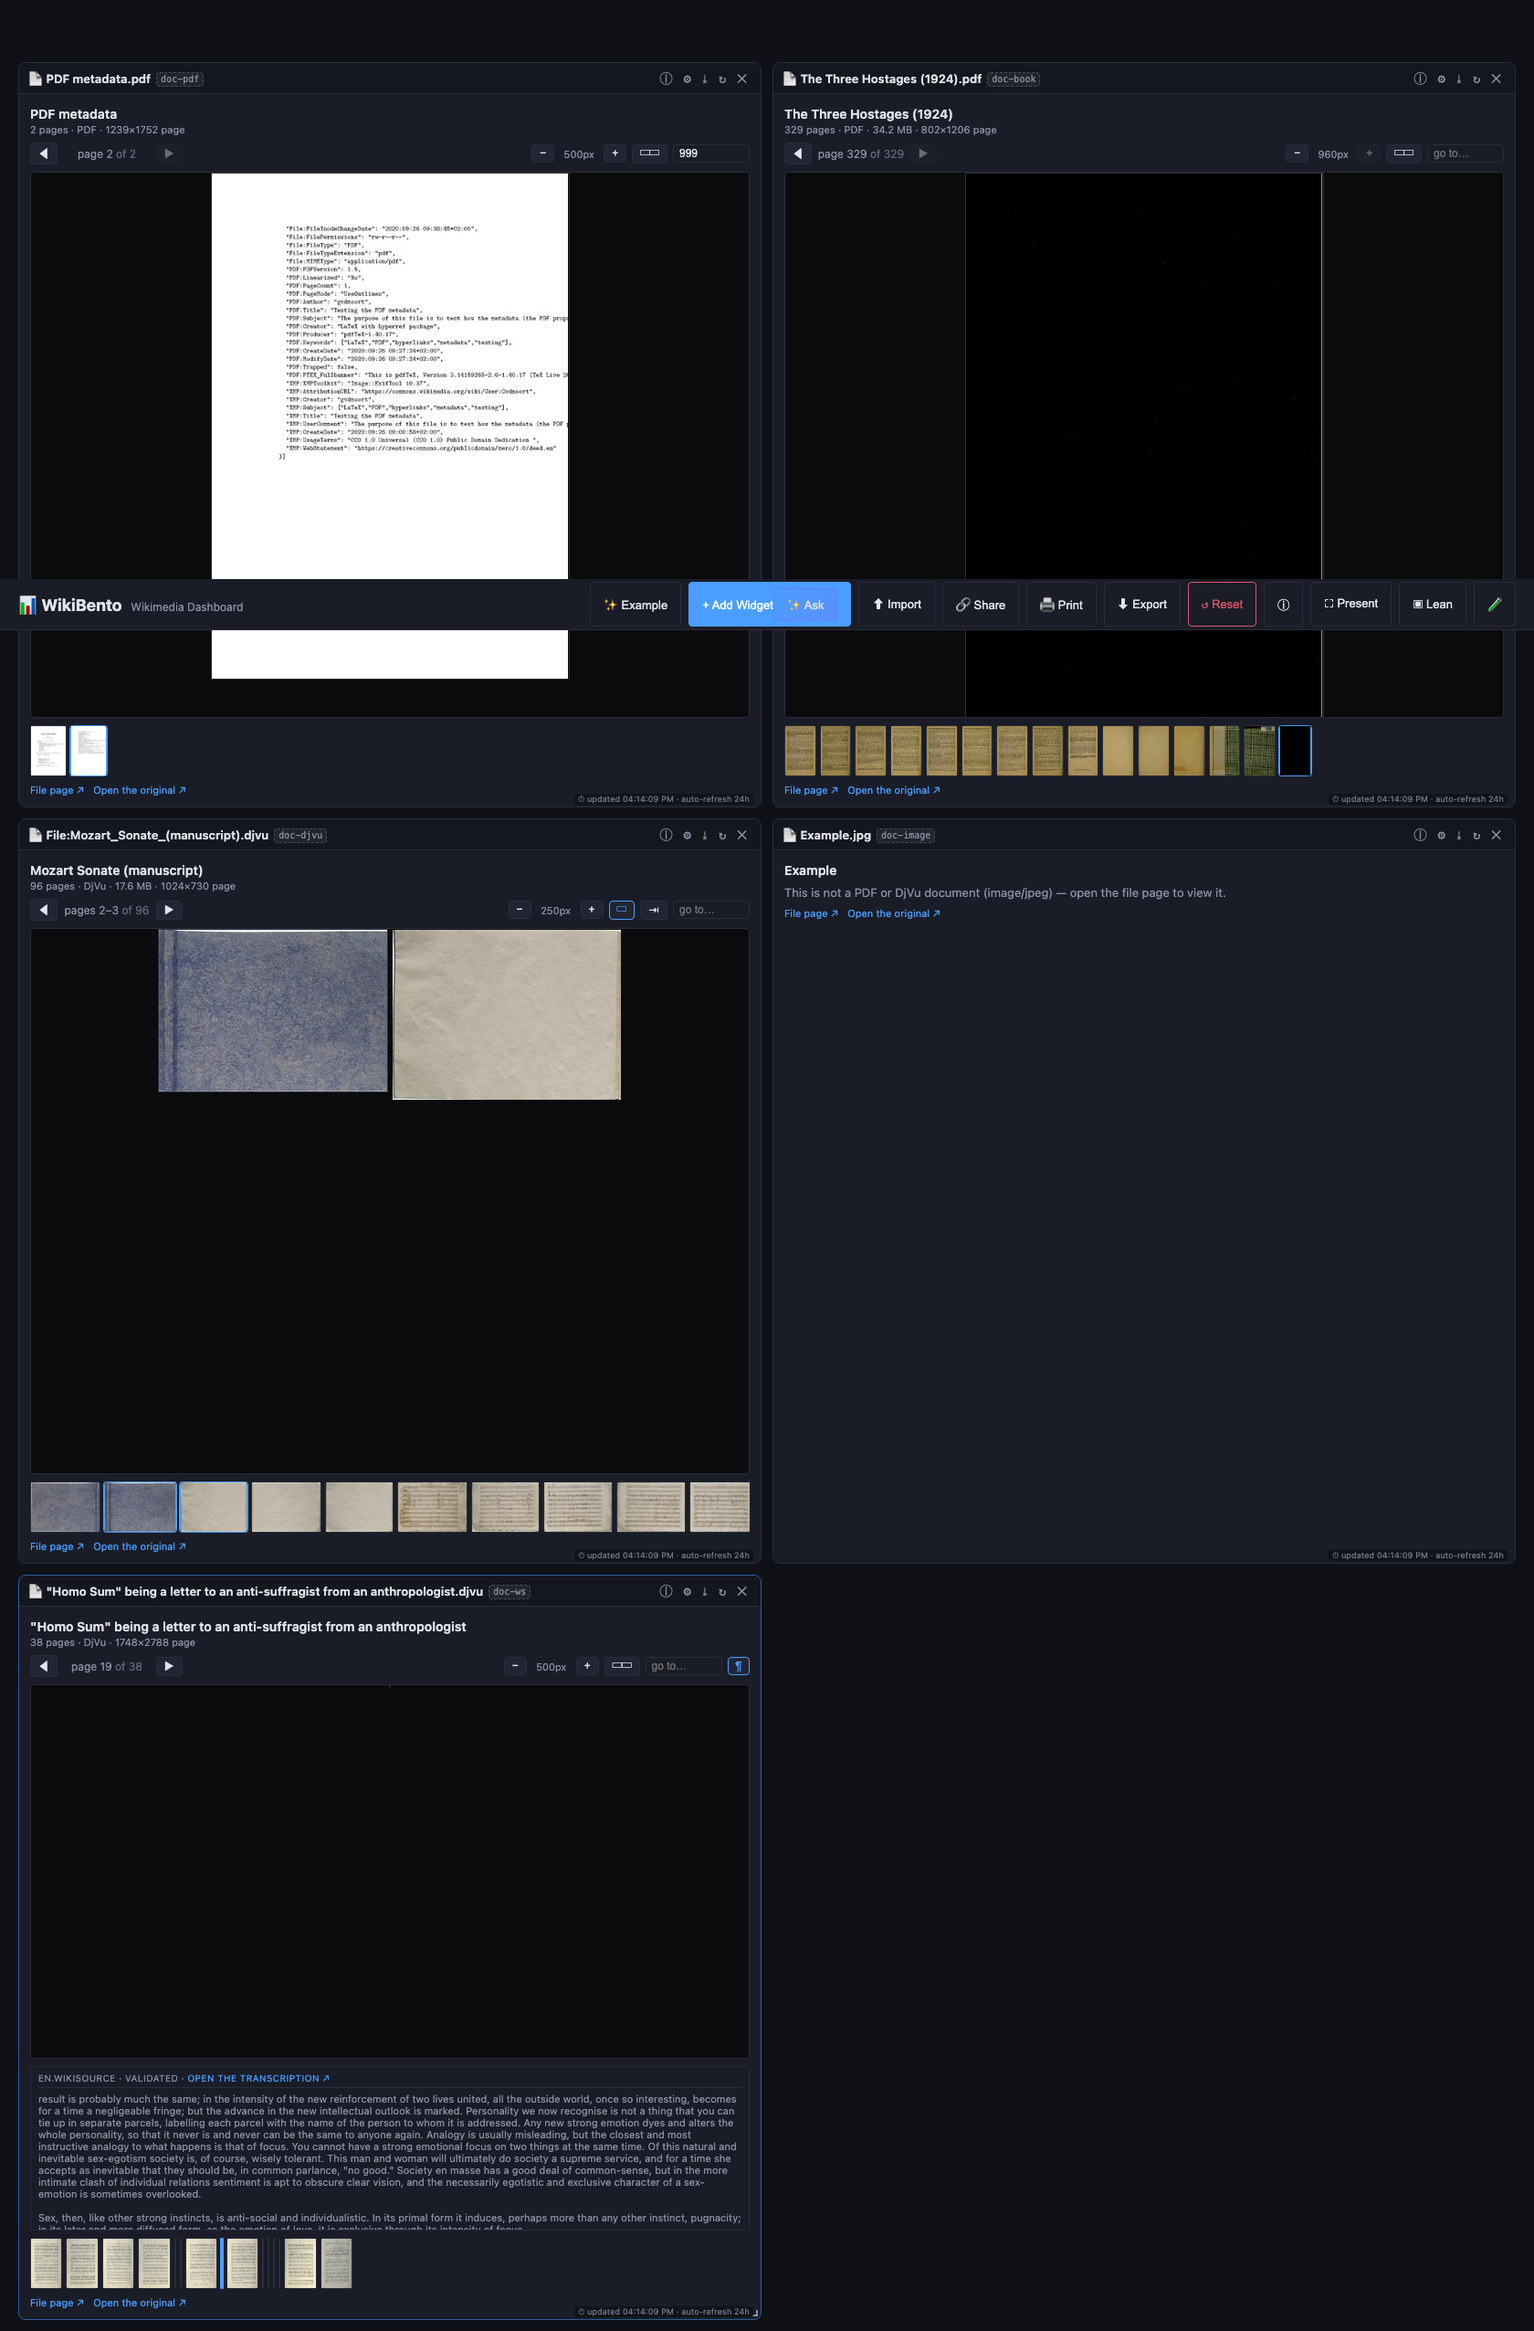
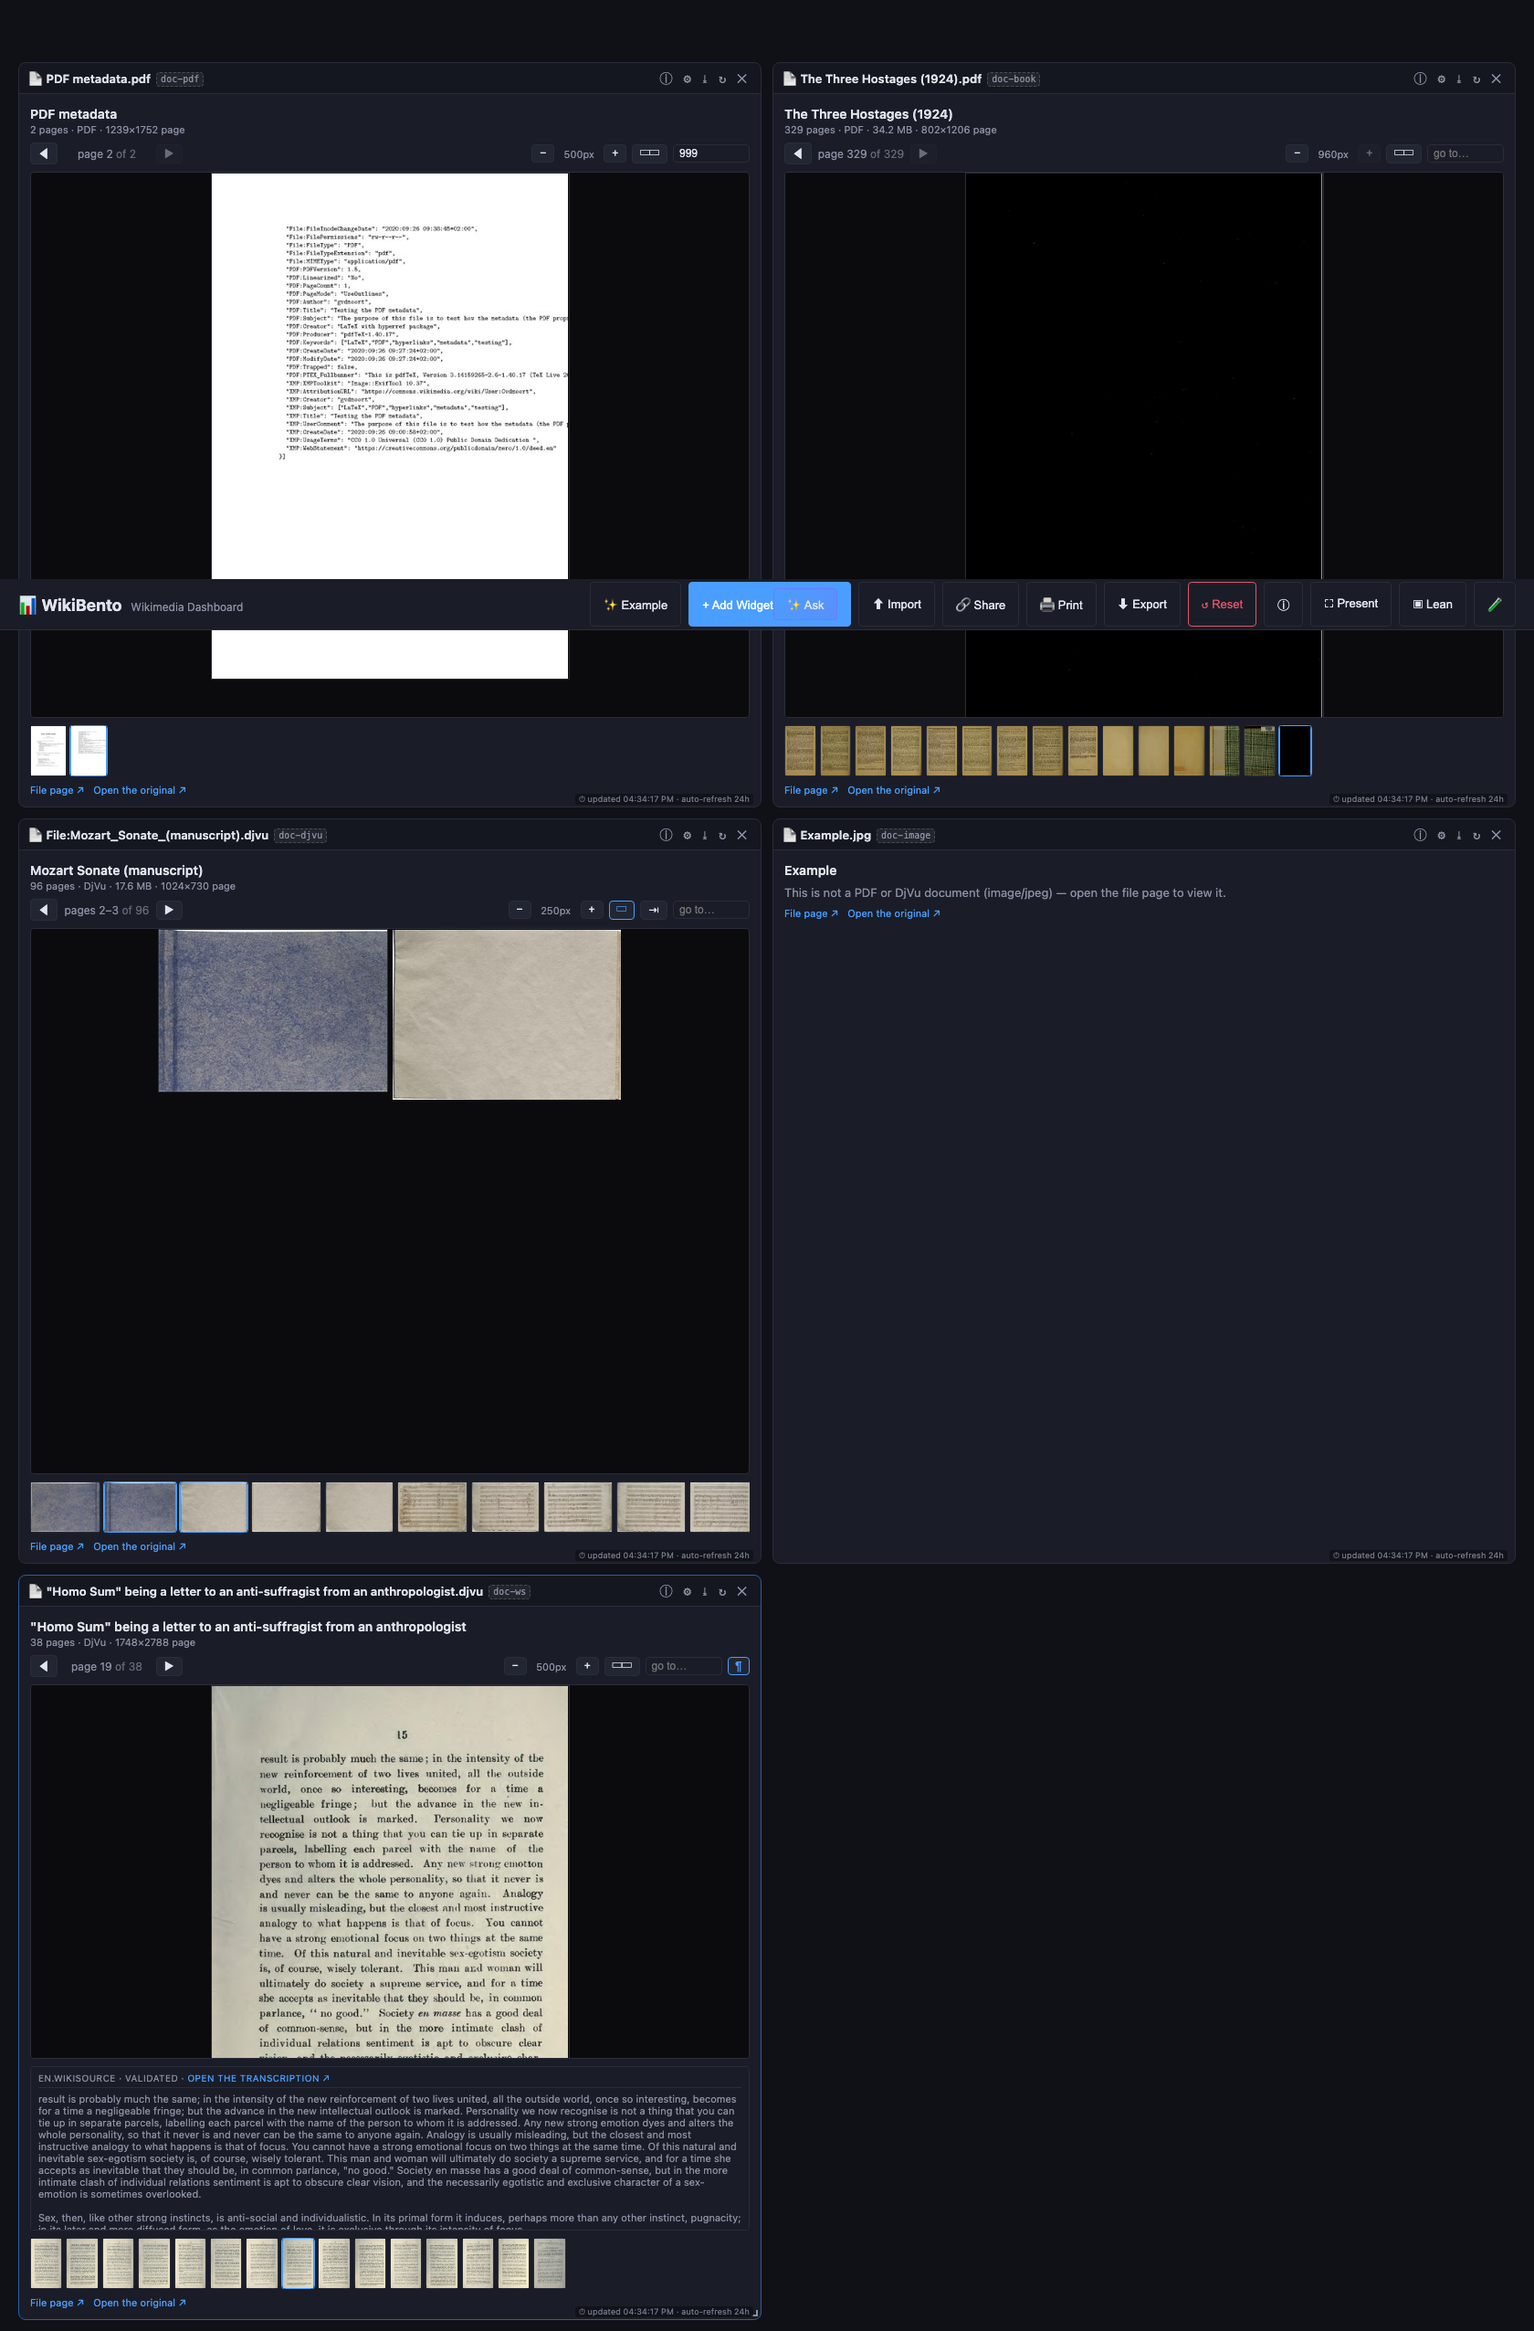
Deploy 2026-09-15 (third): the Wikisource text layer is live (index-B8NGcYXL.js)
Andrew asked to deploy so he could try it. Built, gated, rsynced, restarted, verified against production.

  npm test                439/439 + docs-facts 7/7
  npm run build           ✓
  npm run smoke           42/42 widgets reachable, 252 panel measurements
  npm run smoke:document  31/31  (real Commons files, including the Wikisource text layer)
  npm run smoke:iabook    33/33  (the IA reader, unchanged)

VERIFIED LIVE (17/17, https://wikibento.toolforge.org/ serving index-B8NGcYXL.js):
  · /document-reader-demo.json — five cards; the four documents report 329 / 96 / 38 / 16 pages; the
    transcribed card grows a ¶ button and an untranscribed one does not; page 19 of the transcribed work
    shows 1,458 characters under "EN.WIKISOURCE · VALIDATED", linked to Wikisource;
  · the showcase catalog renders 42 cards with zero crashes;
  · /internet-archive-demo.json still opens its books as facing pages; /anne-frank-mlk-demo.json still draws
    its 21 timeline dots;
  · /api/resolve and /api/proxy 200; the front door loads a board; no uncaught JS errors anywhere.

Also fixed: the PREVIOUS deploy entry said `index-index-CIDXj2nC.css` — the interpolation already carried the
`index-` prefix and my f-string added a second one. A wrong filename in a deploy log costs someone a confusing
grep later, so it is corrected in place with this note rather than left standing.

Records in the shape this repo requires: DEPLOYMENTS.md gets a new entry at the top (newest-first, exempt from
[…]

Changed region(s): [[0.1238, 0.712, 0.3714, 0.8977], [0.0929, 0.9596, 0.3714, 0.9906], [0.3714, 0.9906, 0.4333, 1.0]]

diff --git a/docs/DEPLOYMENTS.md b/docs/DEPLOYMENTS.md
@@ -48,7 +48,8 @@ for, not a claim about behaviour today.
 
 | date | bundle | commit | ships |
 |---|---|---|---|
-| 2026-09-15 (later) | `index-YJ87Jsl0.js` (+ `index-index-CIDXj2nC.css`) | `c61042c` | **The Document Reader** — read a **PDF or DjVu from Wikimedia Commons** (or any wiki) page by page in the *same* viewer the Internet Archive books use: turn, zoom, jump to a page, **facing pages**. One `imageinfo` call gives the page count and a page-1 render template, so a 329-page book costs what a 2-page one does; the credit comes from `extmetadata`, and **Open the original** hands the file to the browser's own PDF viewer. Two additions to the shared reader came out of it: `caps.maxWidth` (a source's ceiling) and `caps.widths` (a source that serves a fixed width list — see the trap below), plus a **page-jump** control, which a 329-page document needs, and a "this page did not load — open the original" sentence instead of a blank hole. New demo board `/document-reader-demo.json` (a 329-page PDF + a DjVu beside an IA book: one reader, two archives). **The trap, found only by running it:** a document page render is served at only certain widths — 120/250/330/500/960/1280 work, while 70/150/200/320/400/640/700/800/1024/1200 return an HTTP 400 **HTML** page, which Chrome then refuses to give an `<img>` at all (`net::ERR_BLOCKED_BY_ORB`) — so the first run showed blank cards with no icon and no message. Identical on PDF and DjVu, and *not* MediaWiki's image-thumb set. Verified live: the document board's three cards report 329/96/16 pages and the DjVu reaches page 96 of 96; the showcase catalog renders **42 cards** including the new one, with no crash; the IA board still opens as facing pages; the 1929 board still draws 21 timeline dots; `/api/resolve` and `/api/proxy` 200; front door fine — **14/14**, no uncaught JS errors. 421 tests, `smoke` 42/42 widgets and 252 panel measurements, `smoke:document` 24, `smoke:iabook` 33. |
+| 2026-09-15 (third) | `index-B8NGcYXL.js` (+ `index-CI1Ga_V5.css`) | `a1c48a7` | **The Wikisource text layer.** Where volunteers have transcribed a Commons document page by page on **Wikisource**, the 📄 Document Reader grows a **¶ button** showing each page's text **with its proofreading grade** and a link to the transcription. One `globalusage` call detects a transcription (a `Page:`/`Index:` usage on a Wikisource — a cross-wiki *link* is not one); **one** `prop=proofread|revisions` call per page returns the words *and* the grade, which is the point: a merely scanned volume says *"Not proofread (uncorrected OCR)"*, a validated one says *"Validated"*, and a reader has to know which they are quoting. The demo fixture is a 38-page, 0.89 MB validated pamphlet (`"Homo Sum"`); the 1,208-page bulk-OCR reference set the traps were measured on is kept for measurements, not for every run. Also here: the demo's cards are named after their works (`dr-homosum`, `dr-mozart`) because a capability is not a widget. Verified live: five cards reporting 329/96/38/16 pages, ¶ on the transcribed card and absent on the untranscribed ones, page 19's 1,458 characters under EN.WIKISOURCE · VALIDATED, the 42-card catalog with no crash, the IA and 1929 boards unchanged, both endpoints 200 — **17/17**, no uncaught JS errors. 439 tests, `smoke` 252 measurements, `smoke:document` 31, `smoke:iabook` 33. |
+| 2026-09-15 (later) | `index-YJ87Jsl0.js` (+ `index-CIDXj2nC.css`) | `c61042c` | **The Document Reader** — read a **PDF or DjVu from Wikimedia Commons** (or any wiki) page by page in the *same* viewer the Internet Archive books use: turn, zoom, jump to a page, **facing pages**. One `imageinfo` call gives the page count and a page-1 render template, so a 329-page book costs what a 2-page one does; the credit comes from `extmetadata`, and **Open the original** hands the file to the browser's own PDF viewer. Two additions to the shared reader came out of it: `caps.maxWidth` (a source's ceiling) and `caps.widths` (a source that serves a fixed width list — see the trap below), plus a **page-jump** control, which a 329-page document needs, and a "this page did not load — open the original" sentence instead of a blank hole. New demo board `/document-reader-demo.json` (a 329-page PDF + a DjVu beside an IA book: one reader, two archives). **The trap, found only by running it:** a document page render is served at only certain widths — 120/250/330/500/960/1280 work, while 70/150/200/320/400/640/700/800/1024/1200 return an HTTP 400 **HTML** page, which Chrome then refuses to give an `<img>` at all (`net::ERR_BLOCKED_BY_ORB`) — so the first run showed blank cards with no icon and no message. Identical on PDF and DjVu, and *not* MediaWiki's image-thumb set. Verified live: the document board's three cards report 329/96/16 pages and the DjVu reaches page 96 of 96; the showcase catalog renders **42 cards** including the new one, with no crash; the IA board still opens as facing pages; the 1929 board still draws 21 timeline dots; `/api/resolve` and `/api/proxy` 200; front door fine — **14/14**, no uncaught JS errors. 421 tests, `smoke` 42/42 widgets and 252 panel measurements, `smoke:document` 24, `smoke:iabook` 33. |
 | 2026-09-15 | `index-D9YNjKJA.js` (+ `index-DGfyoQMG.css`) | `8220b99` | **The Internet Archive pass, and a shared page reader.** 📖 **IA Book** — a scanned archive.org book read in a new shared viewer: turn, zoom, a thumbnail strip, **search inside** (IIIF Content Search, each hit naming its page and showing the matched word boxed on it), per-page OCR text, and PDF/EPUB/OCR/DjVu links. The viewer (`src/lib/pagedViewer.js` + `src/widgets/PagedViewer.jsx`) reads a *page source*, so a Commons PDF/DjVu reader (ISSUE-82) reuses it — and **facing pages** with **right-to-left** support (Arabic/Hebrew/Yiddish scans put the later leaf on the left) landed once for both, settable per board via ⚙ *Reading mode*. 🎬 the media player now takes **direct media URLs** — an `archive.org/download/…` file plays with no API call and no key (Range requests make seeking work); the codec trap recorded: Chromium plays mp4/H.264 and reports `canPlayType: ""` for Theora `.ogv`. ⤓ **PNG export for CORS-image widgets** (ISSUE-80): an HTML/CSS card whose image host allows CORS rasterises safely, so a book page exports as a real PNG (4.4 MB at 2×). Plus **two demo boards** — `/internet-archive-demo.json` (two books in facing-pages mode, four archive items, two players) and `/anne-frank-mlk-demo.json` (one story: two lives on one axis with prose, images and traffic). Verified live: the showcase catalog's **41 cards with zero crashes**, both books showing facing pairs with both page images loaded, the film player at `duration 664s`, 21 timeline dots on the 1929 board, the older Lifeline board still rendering, `/api/resolve` 200 and `/api/proxy` relaying 200 — **10/10**, no uncaught JS errors. 403 tests, docs-facts 7/7, `--live` 8/8. |
 | 2026-09-14 | `index-CSKC-SIk.js` | `1e54db7` | **The Lifeline catch-up deploy — 28 commits.** Two timelines on one shared axis (`timeline` renderer + `two-lives` and `curie-pair` presets, calendar *or* age alignment, − / + zoom to 8×, an overlap-band toggle, a light card theme, per-card titles); a **⤓ export menu** (PDF, CSV, PNG, SVG) per widget; the **`mul` label fix** (Marie Curie and every other language-neutral name were rendering as `Q7186` — this affected *every* entity-labelling widget, not just the timelines); the **preset query** now visible in the ⚙ panel instead of an empty box; and **`BarCard` restored** — rewriting the timeline card in `e4cdad8` had deleted it, so bar-rendered SPARQL widgets threw `ReferenceError` on main for three commits (never in production, which predated that commit). Verified after deploy: 46 timeline dots across 4 lanes, 40/40 showcase widgets with zero crashes, 40 export menus, PNG correctly disabled for HTML/CSS widgets, `/api/resolve` and `/api/proxy` both 200. |
 | 2026-09-12 | `index-C8b1z4iU.js` | `8334f74` | **Widget names, for the video pipeline.** Every `.grid-item` now carries `data-widget-id`, so a recorder (or a script, or a test) can address a card by name instead of by position — `[data-widget-id="views"]`, never `:nth-child(3)`. That is what made the [tutorial video](TUTORIAL-VIDEO-STATUS.md) scriptable. *Reconstructed 2026-09-14: this deploy was never logged at the time. The commit is the one whose features production has, not necessarily the exact build that produced the bundle — and it is the last deploy recorded here, so everything after it is committed but not live.* |

diff --git a/HANDOFF.md b/HANDOFF.md
@@ -27,13 +27,13 @@ Feature-complete for v1 and deployed.
 | | |
 |---|---|
 | Live | <https://wikibento.toolforge.org/> |
-| production bundle | `index-YJ87Jsl0.js` (+ `index-index-CIDXj2nC.css`) |
-| deployed | 2026-09-15, twice (the Internet Archive pass, then the 📄 **Document Reader** for Commons PDFs/DjVu — see [docs/DEPLOYMENTS.md](docs/DEPLOYMENTS.md)) |
+| production bundle | `index-B8NGcYXL.js` (+ `index-CI1Ga_V5.css`) |
+| deployed | 2026-09-15, three times (the Internet Archive pass, the 📄 Document Reader, then its **Wikisource text layer**) |
 | registry | 41 widget types — 32 data-driven, 9 static |
 | showcase catalog | `?config=/dashboard.json` — 42 widgets covering all 41 types |
 | front door for demos | `?config=/demos.json` (the hub) |
 | entry board | ✨ Example (3 starter widgets), or `?config=/article-switcher-demo.json` |
-| pending deploy | none — production serves this branch's tip (verified live: the document board, the 42-card catalog and both older boards) |
+| pending deploy | none — production serves this branch's tip (verified live: the text layer, the 42-card catalog and every demo board) |
 | newest capabilities | 📄 **Document Reader** (Commons PDFs and DjVu, sharing one viewer with 📖 IA Book, facing pages both, and a **Wikisource text panel with its proofreading grade** where a transcription exists) · 🎬 archive.org media by URL · ⤓ PNG export for CORS images · 🕰 Lifeline timelines |
 
 **Every widget type is in the showcase catalog** — no exceptions, and

diff --git a/docs/VERIFIED-WORKING.md b/docs/VERIFIED-WORKING.md
@@ -331,3 +331,10 @@ Back to the [README](../README.md).
   `…/wiki/Page:%22Homo_Sum%22_…_anthropologist.djvu/19`; **no raw markup** survives — an assertion that, run
   against a full 10 KB page, caught a wikitable that the trimmed unit fixtures had missed, and that
   templates were being expanded after tables.
+
+- ✅ **2026-09-15 — the Wikisource text layer, verified against production** (17/17, serving
+  `index-B8NGcYXL.js`): `/document-reader-demo.json` renders five cards whose documents report **329 / 96 / 38
+  / 16 pages**; the transcribed card grows a **¶ button** and an untranscribed one does not; **page 19 shows
+  1,458 characters** under **"EN.WIKISOURCE · VALIDATED"**, linked to Wikisource; the showcase catalog renders
+  **42 cards** with zero crashes; the IA and 1929 boards are unchanged; `/api/resolve` and `/api/proxy` both
+  200; **no uncaught JS errors**.
